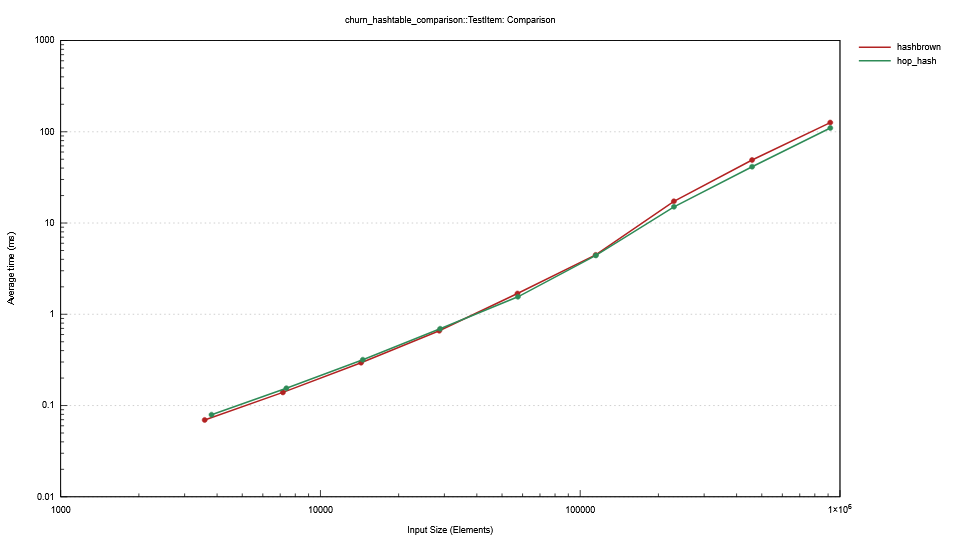
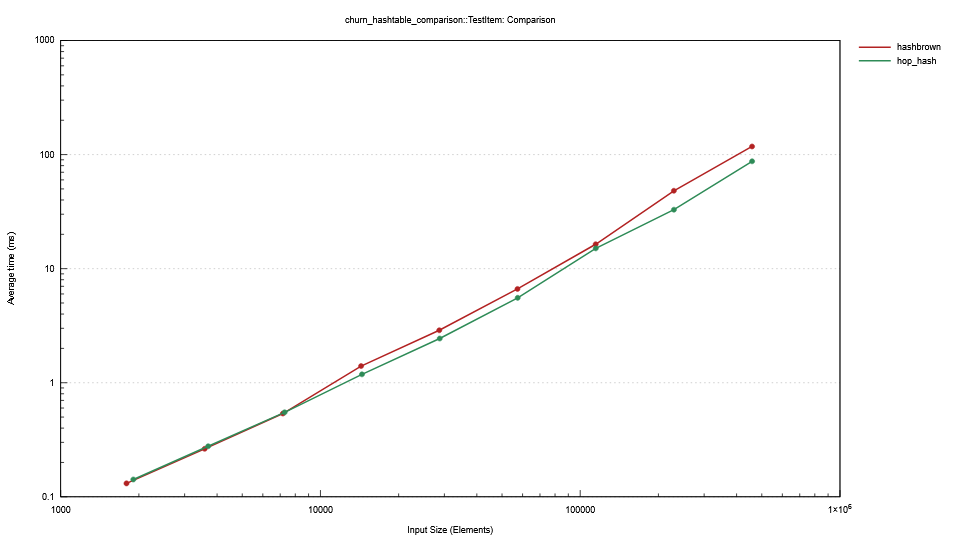
Update methodology for churn
Also update benchmark results

diff --git a/benches/hashtable_comparison.rs b/benches/hashtable_comparison.rs
@@ -1520,7 +1520,7 @@ fn bench_mixed_probabilistic_zipf<TestItem: KeyValuePair, const MAX_SIZE: usize>
     }
 }
 
-fn bench_churn<TestItem: KeyValuePair, const MAX_SIZE: usize>(c: &mut Criterion) {
+fn bench_churn_zipf<TestItem: KeyValuePair, const MAX_SIZE: usize>(c: &mut Criterion) {
     let mut group = c.benchmark_group(format!("churn_{}", core::any::type_name::<TestItem>()));
     group.plot_config(PlotConfiguration::default().summary_scale(AxisScale::Logarithmic));
 
@@ -1528,62 +1528,100 @@ fn bench_churn<TestItem: KeyValuePair, const MAX_SIZE: usize>(c: &mut Criterion)
         let hop_capacity = HopHashTable::<TestItem>::with_capacity(*size).capacity();
         let hashbrown_capacity = HashbrownHashTable::<TestItem>::with_capacity(*size).capacity();
 
-        let insertions_and_removals = (0..hop_capacity.max(hashbrown_capacity))
-            .flat_map(|i| {
+        let all_items = (0..hop_capacity.max(hashbrown_capacity))
+            .map(|i| {
                 let key = i as u64;
                 let item = TestItem::new(key);
                 let hash = item.hash_key();
-                [(hash, item.clone()), (hash, item)]
+                (hash, item)
             })
             .collect::<Vec<(u64, TestItem)>>();
 
-        group.throughput(Throughput::Elements(hop_capacity as u64 * 2));
+        let zipf = Zipf::new((hop_capacity as f32 - 1.0).floor(), 1.3).unwrap();
+        let mut rng = SmallRng::from_os_rng();
+
+        group.throughput(Throughput::Elements(hop_capacity as u64));
         group.bench_function(BenchmarkId::new("hop_hash", size), |b| {
             b.iter_batched(
                 || {
-                    let mut hash_and_item = insertions_and_removals.clone();
-                    hash_and_item.shuffle(&mut SmallRng::from_os_rng());
-                    hash_and_item
-                },
-                |hash_and_item| {
                     let mut table = HopHashTable::<TestItem>::with_capacity(0);
-                    for (hash, item) in hash_and_item.into_iter().take(hop_capacity) {
+                    for (hash, item) in all_items.iter().take(hop_capacity).cloned() {
                         match table.entry(hash, |v| v.eq_key(&item), |v| v.hash_key()) {
                             hop_hash::hash_table::Entry::Vacant(entry) => {
                                 entry.insert(item);
                             }
-                            hop_hash::hash_table::Entry::Occupied(entry) => {
-                                black_box(entry.remove());
+                            hop_hash::hash_table::Entry::Occupied(_) => unreachable!(),
+                        }
+                    }
+
+                    table
+                },
+                |mut table| {
+                    for _ in 0..hop_capacity {
+                        let remove = rng.random::<bool>();
+                        let idx = rng.sample(zipf) as usize;
+                        let (hash, item) = &all_items[idx];
+
+                        if remove {
+                            black_box(table.remove(*hash, |v| v.eq_key(item)));
+                        } else {
+                            match table.entry(*hash, |v| v.eq_key(item), |v| v.hash_key()) {
+                                hop_hash::hash_table::Entry::Vacant(entry) => {
+                                    black_box(entry.insert(item.clone()));
+                                }
+                                hop_hash::hash_table::Entry::Occupied(mut occupied) => {
+                                    *occupied.get_mut() = item.clone();
+                                }
                             }
                         }
                     }
-                    black_box(table)
                 },
                 criterion::BatchSize::SmallInput,
             )
         });
 
-        group.throughput(Throughput::Elements(hashbrown_capacity as u64 * 2));
+        let zipf = Zipf::new((hashbrown_capacity as f32 - 1.0).floor(), 1.3).unwrap();
+        let mut rng = SmallRng::from_os_rng();
+
+        group.throughput(Throughput::Elements(hashbrown_capacity as u64));
         group.bench_function(BenchmarkId::new("hashbrown", size), |b| {
             b.iter_batched(
                 || {
-                    let mut hash_and_item = insertions_and_removals.clone();
-                    hash_and_item.shuffle(&mut SmallRng::from_os_rng());
-                    hash_and_item
-                },
-                |hash_and_item| {
                     let mut table = HashbrownHashTable::<TestItem>::with_capacity(0);
-                    for (hash, item) in hash_and_item.into_iter().take(hashbrown_capacity) {
+                    for (hash, item) in all_items.iter().take(hashbrown_capacity).cloned() {
                         match table.entry(hash, |v| v.eq_key(&item), |v| v.hash_key()) {
                             HashbrownEntry::Vacant(entry) => {
-                                black_box(entry.insert(item));
+                                entry.insert(item);
                             }
-                            HashbrownEntry::Occupied(entry) => {
-                                black_box(entry.remove().0);
+                            HashbrownEntry::Occupied(_) => unreachable!(),
+                        }
+                    }
+
+                    table
+                },
+                |mut table| {
+                    for _ in 0..hashbrown_capacity {
+                        let remove = rng.random::<bool>();
+                        let idx = rng.sample(zipf) as usize;
+                        let (hash, item) = &all_items[idx];
+
+                        if remove {
+                            let result = match table.find_entry(*hash, |v| v.eq_key(item)) {
+                                Ok(entry) => Some(entry.remove().0),
+                                Err(_) => None,
+                            };
+                            black_box(result);
+                        } else {
+                            match table.entry(*hash, |v| v.eq_key(item), |v| v.hash_key()) {
+                                HashbrownEntry::Vacant(entry) => {
+                                    black_box(entry.insert(item.clone()));
+                                }
+                                HashbrownEntry::Occupied(mut occupied) => {
+                                    *occupied.get_mut() = item.clone();
+                                }
                             }
                         }
                     }
-                    black_box(table)
                 },
                 criterion::BatchSize::SmallInput,
             )
@@ -1602,9 +1640,9 @@ criterion_group!(
     bench_mixed_probabilistic_zipf::<SmallTestItem, 8>,
     bench_mixed_probabilistic_zipf::<TestItem, 8>,
     bench_mixed_probabilistic_zipf::<LargeTestItem, 5>,
-    bench_churn::<SmallTestItem, 8>,
-    bench_churn::<TestItem, 8>,
-    bench_churn::<LargeTestItem, 5>,
+    bench_churn_zipf::<SmallTestItem, 8>,
+    bench_churn_zipf::<TestItem, 8>,
+    bench_churn_zipf::<LargeTestItem, 5>,
     bench_collect_find::<SmallTestItem, 8>,
     bench_collect_find::<TestItem, 8>,
     bench_collect_find::<LargeTestItem, 5>,

diff --git a/src/hash_table.rs b/src/hash_table.rs
@@ -2268,6 +2268,17 @@ impl<'a, V> Iterator for Iter<'a, V> {
         unsafe {
             let total_slots = (self.table.max_root_mask.wrapping_add(1) + HOP_RANGE) * LANES;
             while self.bucket_index < total_slots {
+                let prefetch_index = self.bucket_index + 1;
+                if prefetch_index < total_slots {
+                    prefetch(
+                        self.table
+                            .buckets_ptr()
+                            .as_ref()
+                            .as_ptr()
+                            .add(prefetch_index),
+                    );
+                }
+
                 if self.table.is_occupied(self.bucket_index) {
                     let bucket = &self
                         .table

diff --git a/benches/README.md b/benches/README.md
@@ -69,22 +69,25 @@ and s=1.3.
 
 #### Churn
 This benchmark simulates a workload where the table is kept at a steady state, with random inserts
-and removals. A batch of items equal to 2x the target capacity is allocated, then iterated over in
-random order. If an item is not in the table already, it is inserted. If it is already in the table,
-it is removed. 
+and removals. A batch of items is generated and a table filled to its target capacity and load
+factor. Then, in each iteration, the benchmark randomly selects items from the batch using a zipf
+distribution with s=1.3 in a loop of size equal to the table capacity. For each selected item, it
+has a 50/50 chance of either inserting/updating the item (if it is not already present) or removing
+the item (if it is present). This simulates a workload where the table is constantly being updated
+with new items while also removing old items, maintaining a steady state size.
 
 ![churn workload benchmark results](images/churn.png)
 
 ### Single Operation Workloads
 #### Iteration
 The following benchmark results show the performance of hop-hash vs hashbrown for iterating over
-all items in the table.
+all items in the table with a cold cache.
 
 ![iteration benchmark results](images/iteration.png)
 
 #### Drain
 The following benchmark results show the performance of hop-hash vs hashbrown for draining all
-items from the table.
+items from the table with a cold cache.
 
 ![drain benchmark results](images/drain.png)
 
@@ -97,29 +100,29 @@ runs.
 
 ### Benchmark: `churn` | Item Type: `LargeTestItem`
 
-| Size  | hashbrown | hop_hash  | Comparison                        |
-| ----- | --------- | --------- | --------------------------------- |
-| 1024  | 63 ns/op  | 71 ns/op  | **hashbrown** is **1.12x** faster |
-| 2048  | 90 ns/op  | 79 ns/op  | **hop_hash** is **1.14x** faster  |
-| 4096  | 135 ns/op | 85 ns/op  | **hop_hash** is **1.59x** faster  |
-| 8192  | 138 ns/op | 97 ns/op  | **hop_hash** is **1.41x** faster  |
-| 16384 | 197 ns/op | 135 ns/op | **hop_hash** is **1.46x** faster  |
-| 32768 | 223 ns/op | 156 ns/op | **hop_hash** is **1.43x** faster  |
+| Size  | hashbrown | hop_hash  | Comparison                       |
+| ----- | --------- | --------- | -------------------------------- |
+| 1024  | 239 ns/op | 142 ns/op | **hop_hash** is **1.69x** faster |
+| 2048  | 274 ns/op | 153 ns/op | **hop_hash** is **1.80x** faster |
+| 4096  | 292 ns/op | 158 ns/op | **hop_hash** is **1.84x** faster |
+| 8192  | 323 ns/op | 176 ns/op | **hop_hash** is **1.83x** faster |
+| 16384 | 388 ns/op | 192 ns/op | **hop_hash** is **2.03x** faster |
+| 32768 | 439 ns/op | 233 ns/op | **hop_hash** is **1.89x** faster |
 
 
 ### Benchmark: `churn` | Item Type: `TestItem`
 
 | Size   | hashbrown | hop_hash  | Comparison                        |
 | ------ | --------- | --------- | --------------------------------- |
-| 1024   | 19 ns/op  | 21 ns/op  | **hashbrown** is **1.08x** faster |
-| 2048   | 19 ns/op  | 21 ns/op  | **hashbrown** is **1.08x** faster |
-| 4096   | 21 ns/op  | 22 ns/op  | **hashbrown** is **1.06x** faster |
-| 8192   | 23 ns/op  | 24 ns/op  | **hashbrown** is **1.04x** faster |
-| 16384  | 29 ns/op  | 27 ns/op  | **hop_hash** is **1.09x** faster  |
-| 32768  | 39 ns/op  | 38 ns/op  | **hop_hash** is **1.01x** faster  |
-| 65536  | 75 ns/op  | 66 ns/op  | **hop_hash** is **1.15x** faster  |
-| 131072 | 107 ns/op | 90 ns/op  | **hop_hash** is **1.19x** faster  |
-| 262144 | 137 ns/op | 120 ns/op | **hop_hash** is **1.15x** faster  |
+| 1024   | 73 ns/op  | 75 ns/op  | **hashbrown** is **1.02x** faster |
+| 2048   | 73 ns/op  | 75 ns/op  | **hashbrown** is **1.02x** faster |
+| 4096   | 75 ns/op  | 76 ns/op  | **hashbrown** is **1.01x** faster |
+| 8192   | 98 ns/op  | 82 ns/op  | **hop_hash** is **1.19x** faster  |
+| 16384  | 101 ns/op | 85 ns/op  | **hop_hash** is **1.19x** faster  |
+| 32768  | 116 ns/op | 97 ns/op  | **hop_hash** is **1.20x** faster  |
+| 65536  | 143 ns/op | 66 ns/op  | **hop_hash** is **2.18x** faster  |
+| 131072 | 210 ns/op | 143 ns/op | **hop_hash** is **1.47x** faster  |
+| 262144 | 257 ns/op | 190 ns/op | **hop_hash** is **1.35x** faster  |
 
 
 ### Benchmark: `collect_find` | Item Type: `LargeTestItem`
@@ -178,56 +181,56 @@ runs.
 
 ### Benchmark: `drain` | Item Type: `LargeTestItem`
 
-| Size  | hashbrown | hop_hash | Comparison                        |
-| ----- | --------- | -------- | --------------------------------- |
-| 1024  | 21 ns/op  | 25 ns/op | **hashbrown** is **1.19x** faster |
-| 2048  | 30 ns/op  | 35 ns/op | **hashbrown** is **1.16x** faster |
-| 4096  | 25 ns/op  | 30 ns/op | **hashbrown** is **1.20x** faster |
-| 8192  | 25 ns/op  | 43 ns/op | **hashbrown** is **1.69x** faster |
-| 16384 | 49 ns/op  | 43 ns/op | **hop_hash** is **1.15x** faster  |
-| 32768 | 86 ns/op  | 61 ns/op | **hop_hash** is **1.41x** faster  |
+| Size  | hashbrown | hop_hash | Comparison                       |
+| ----- | --------- | -------- | -------------------------------- |
+| 1024  | 22 ns/op  | 17 ns/op | **hop_hash** is **1.33x** faster |
+| 2048  | 33 ns/op  | 20 ns/op | **hop_hash** is **1.60x** faster |
+| 4096  | 25 ns/op  | 17 ns/op | **hop_hash** is **1.49x** faster |
+| 8192  | 24 ns/op  | 20 ns/op | **hop_hash** is **1.23x** faster |
+| 16384 | 39 ns/op  | 33 ns/op | **hop_hash** is **1.20x** faster |
+| 32768 | 82 ns/op  | 55 ns/op | **hop_hash** is **1.48x** faster |
 
 
 ### Benchmark: `drain` | Item Type: `TestItem`
 
-| Size   | hashbrown | hop_hash | Comparison                       |
-| ------ | --------- | -------- | -------------------------------- |
-| 1024   | 13 ns/op  | 11 ns/op | **hop_hash** is **1.24x** faster |
-| 2048   | 13 ns/op  | 11 ns/op | **hop_hash** is **1.22x** faster |
-| 4096   | 14 ns/op  | 11 ns/op | **hop_hash** is **1.25x** faster |
-| 8192   | 15 ns/op  | 12 ns/op | **hop_hash** is **1.26x** faster |
-| 16384  | 17 ns/op  | 12 ns/op | **hop_hash** is **1.41x** faster |
-| 32768  | 18 ns/op  | 13 ns/op | **hop_hash** is **1.38x** faster |
-| 65536  | 22 ns/op  | 15 ns/op | **hop_hash** is **1.46x** faster |
-| 131072 | 42 ns/op  | 32 ns/op | **hop_hash** is **1.30x** faster |
-| 262144 | 77 ns/op  | 67 ns/op | **hop_hash** is **1.14x** faster |
+| Size   | hashbrown | hop_hash    | Comparison                       |
+| ------ | --------- | ----------- | -------------------------------- |
+| 1024   | 13 ns/op  | 10.63 ns/op | **hop_hash** is **1.25x** faster |
+| 2048   | 13 ns/op  | 10.93 ns/op | **hop_hash** is **1.21x** faster |
+| 4096   | 13 ns/op  | 11.02 ns/op | **hop_hash** is **1.22x** faster |
+| 8192   | 15 ns/op  | 11.36 ns/op | **hop_hash** is **1.31x** faster |
+| 16384  | 17 ns/op  | 12 ns/op    | **hop_hash** is **1.40x** faster |
+| 32768  | 19 ns/op  | 13 ns/op    | **hop_hash** is **1.45x** faster |
+| 65536  | 21 ns/op  | 15 ns/op    | **hop_hash** is **1.40x** faster |
+| 131072 | 39 ns/op  | 24 ns/op    | **hop_hash** is **1.61x** faster |
+| 262144 | 83 ns/op  | 76 ns/op    | **hop_hash** is **1.09x** faster |
 
 
-### Benchmark: `iteration` | Item Type: `LargeTestItem`
+### Benchmark: `iteration_cold` | Item Type: `LargeTestItem`
 
-| Size  | hashbrown  | hop_hash   | Comparison                       |
-| ----- | ---------- | ---------- | -------------------------------- |
-| 1024  | 1.36 ns/op | 0.42 ns/op | **hop_hash** is **3.27x** faster |
-| 2048  | 1.36 ns/op | 0.44 ns/op | **hop_hash** is **3.08x** faster |
-| 4096  | 1.36 ns/op | 0.46 ns/op | **hop_hash** is **2.98x** faster |
-| 8192  | 1.36 ns/op | 0.48 ns/op | **hop_hash** is **2.83x** faster |
-| 16384 | 1.37 ns/op | 0.51 ns/op | **hop_hash** is **2.67x** faster |
-| 32768 | 1.37 ns/op | 0.55 ns/op | **hop_hash** is **2.49x** faster |
+| Size  | hashbrown | hop_hash | Comparison                        |
+| ----- | --------- | -------- | --------------------------------- |
+| 1024  | 13 ns/op  | 13 ns/op | **hashbrown** is **1.03x** faster |
+| 2048  | 28 ns/op  | 20 ns/op | **hop_hash** is **1.41x** faster  |
+| 4096  | 29 ns/op  | 18 ns/op | **hop_hash** is **1.58x** faster  |
+| 8192  | 26 ns/op  | 19 ns/op | **hop_hash** is **1.42x** faster  |
+| 16384 | 38 ns/op  | 22 ns/op | **hop_hash** is **1.69x** faster  |
+| 32768 | 62 ns/op  | 51 ns/op | **hop_hash** is **1.21x** faster  |
 
 
-### Benchmark: `iteration` | Item Type: `TestItem`
+### Benchmark: `iteration_cold` | Item Type: `TestItem`
 
-| Size   | hashbrown  | hop_hash   | Comparison                        |
-| ------ | ---------- | ---------- | --------------------------------- |
-| 1024   | 0.42 ns/op | 0.40 ns/op | **hop_hash** is **1.05x** faster  |
-| 2048   | 0.43 ns/op | 0.40 ns/op | **hop_hash** is **1.08x** faster  |
-| 4096   | 0.43 ns/op | 0.44 ns/op | **hashbrown** is **1.02x** faster |
-| 8192   | 0.44 ns/op | 0.45 ns/op | **hashbrown** is **1.02x** faster |
-| 16384  | 0.45 ns/op | 0.48 ns/op | **hashbrown** is **1.07x** faster |
-| 32768  | 0.48 ns/op | 0.50 ns/op | **hashbrown** is **1.05x** faster |
-| 65536  | 0.54 ns/op | 0.53 ns/op | **hop_hash** is **1.01x** faster  |
-| 131072 | 0.60 ns/op | 0.55 ns/op | **hop_hash** is **1.08x** faster  |
-| 262144 | 0.65 ns/op | 0.56 ns/op | **hop_hash** is **1.14x** faster  |
+| Size   | hashbrown   | hop_hash    | Comparison                       |
+| ------ | ----------- | ----------- | -------------------------------- |
+| 1024   | 10.63 ns/op | 9.80 ns/op  | **hop_hash** is **1.09x** faster |
+| 2048   | 10.83 ns/op | 9.92 ns/op  | **hop_hash** is **1.09x** faster |
+| 4096   | 11.08 ns/op | 10.17 ns/op | **hop_hash** is **1.09x** faster |
+| 8192   | 12 ns/op    | 10.64 ns/op | **hop_hash** is **1.15x** faster |
+| 16384  | 15 ns/op    | 12 ns/op    | **hop_hash** is **1.20x** faster |
+| 32768  | 18 ns/op    | 13 ns/op    | **hop_hash** is **1.35x** faster |
+| 65536  | 21 ns/op    | 15 ns/op    | **hop_hash** is **1.42x** faster |
+| 131072 | 38 ns/op    | 29 ns/op    | **hop_hash** is **1.28x** faster |
+| 262144 | 77 ns/op    | 51 ns/op    | **hop_hash** is **1.50x** faster |
 
 
 ### Benchmark: `mixed_probabilistic` | Item Type: `LargeTestItem`
